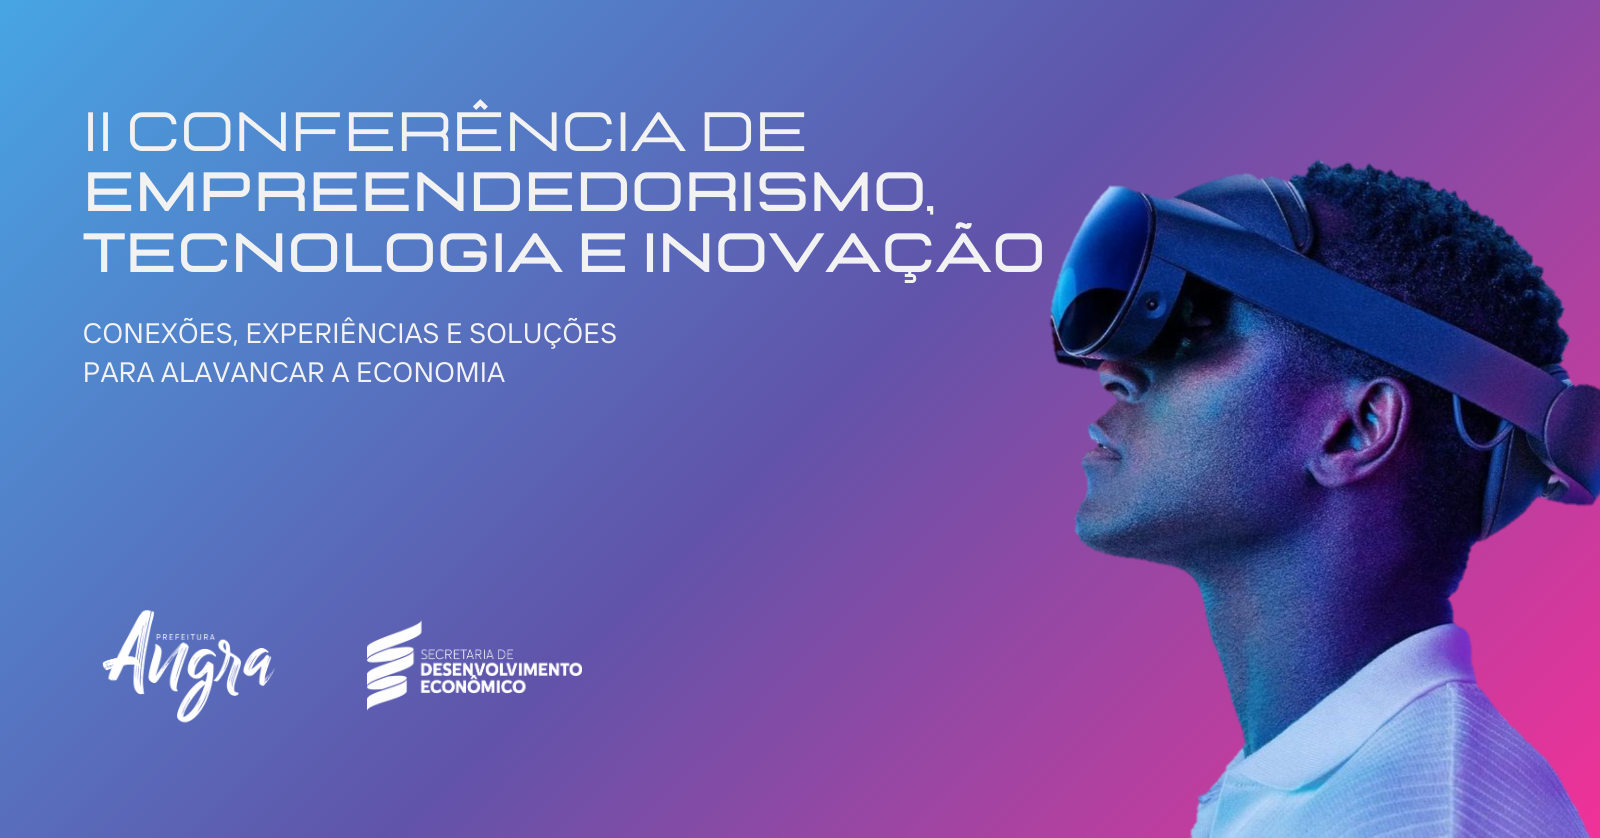
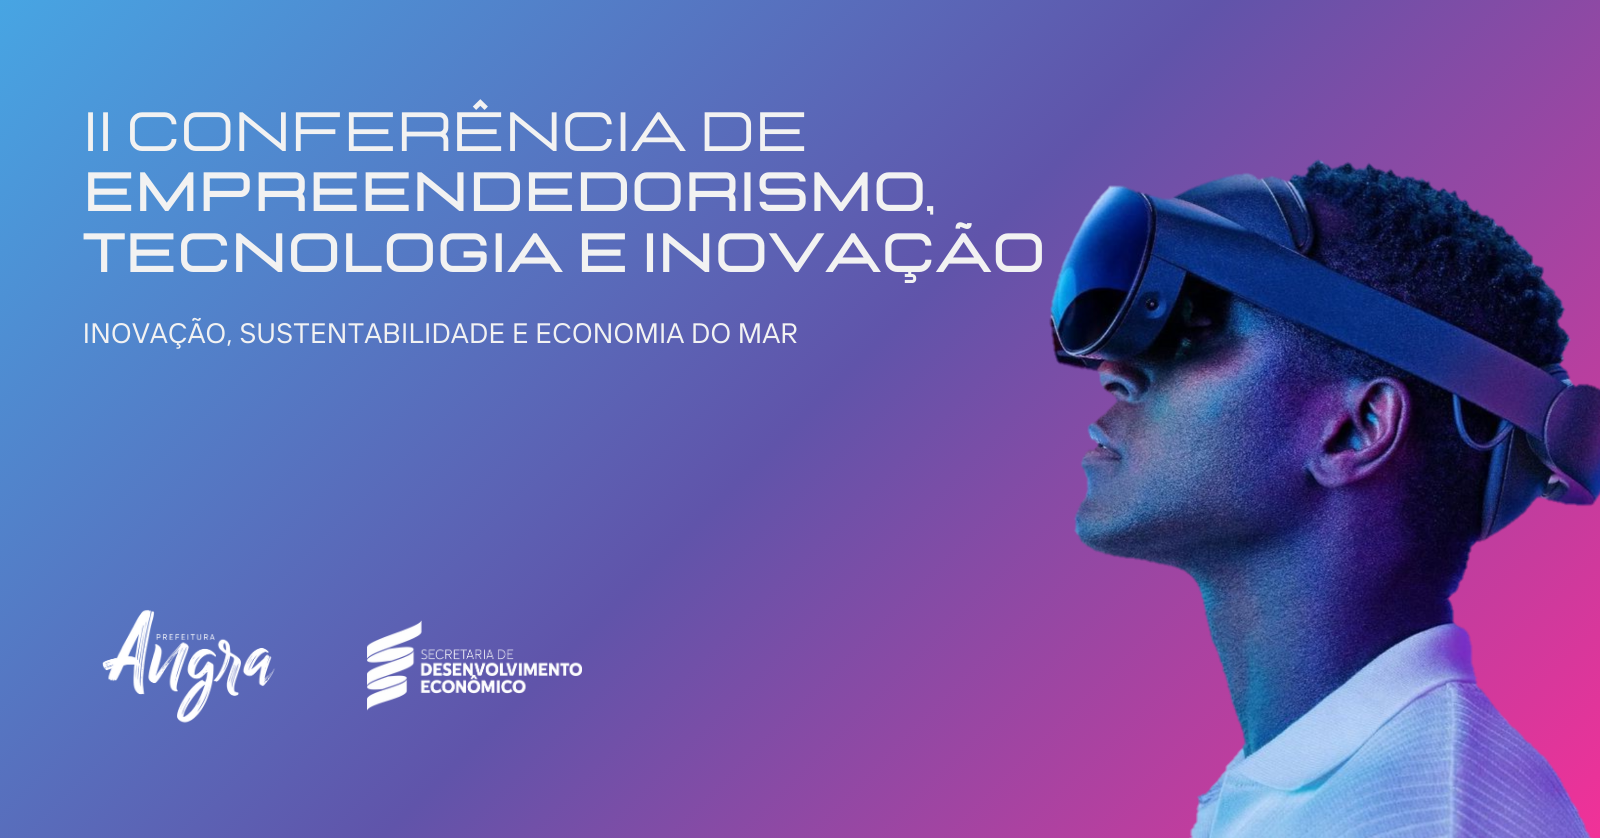
Atualizando Subtítulo, e base para background

Changed region(s): [[0.0625, 0.3723, 0.5, 0.4654]]

diff --git a/index.html b/index.html
@@ -90,7 +90,7 @@ Inovação, Sustentabilidade e Economia do Mar</h2>
         </div>
     </div>
 <!-- Palestrantes -->
-
+<div class="background-container"></div>
 <div class="margem-ladoP texto">
     <div class="idHolderB" id="palestra"></div>
     <!-- segura o id para mapeamento da pagina -->
@@ -136,6 +136,7 @@ Inovação, Sustentabilidade e Economia do Mar</h2>
         </div>
     </div>
     <br><br>
+</div>
 </div>
     <!-- Mapa e local -->
     <div class="texto margem-lado margem-baixo">

diff --git a/assets/style.css b/assets/style.css
@@ -158,6 +158,8 @@ nav .logo{
     text-align: justify;
     font-size: 1rem;
 }
+
+
 /* imagem fundo mapa */
 
 .fundo-imagem{
